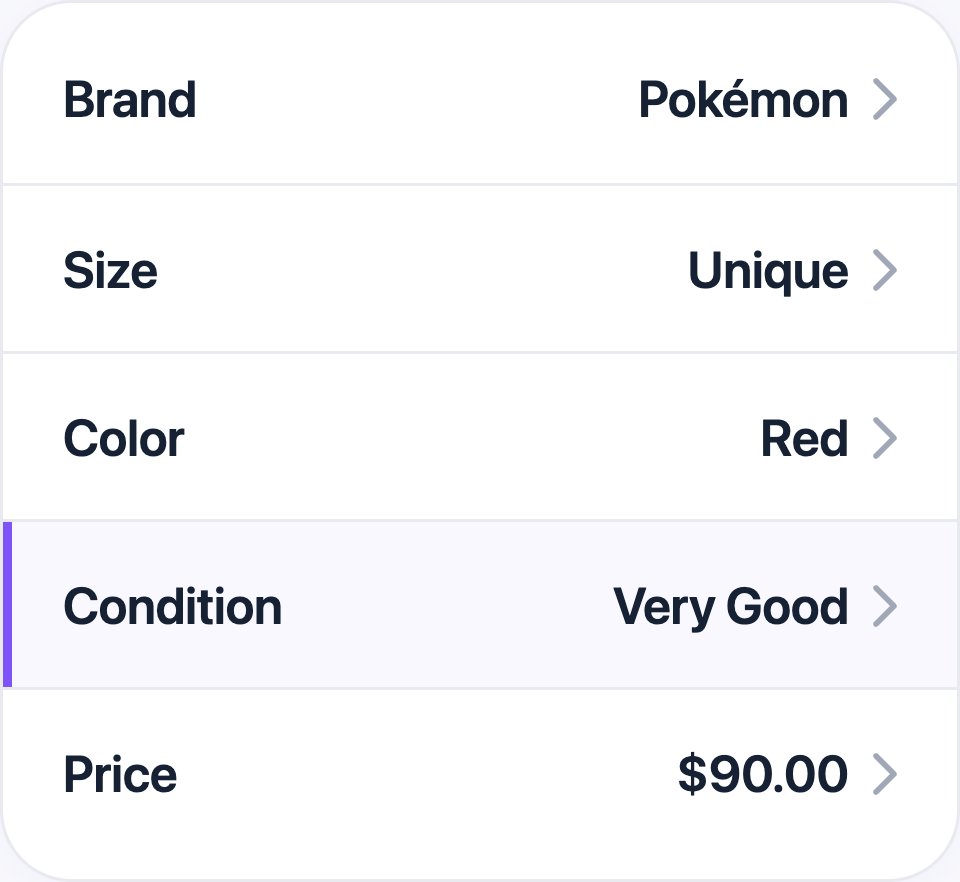
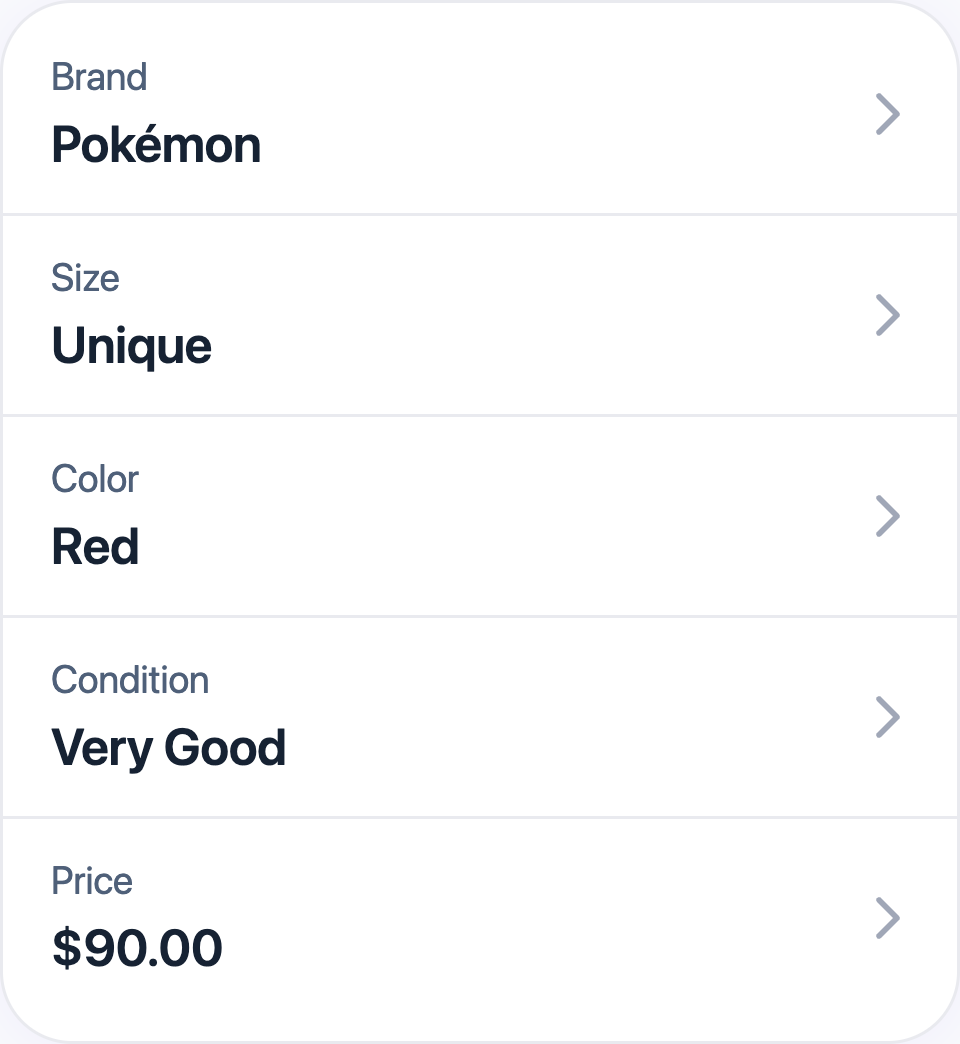
v2 patch: understanding-listing-conditions-and-expectations — PR #105 Layout Proof retro pass
Article validates 0 hard / 0 soft (variants article: pre-existing 1 soft
warn unchanged ; not introduced by this patch). PNGs re-rendered DPR3.
No flow.yml change. No Intercom sync triggered.

diff --git a/articles/understanding-listing-conditions-and-expectations/mockup-sources/section-row__en.html b/articles/understanding-listing-conditions-and-expectations/mockup-sources/section-row__en.html
@@ -3,47 +3,57 @@
 body { font-family: -apple-system, "SF Pro Display", BlinkMacSystemFont, system-ui, sans-serif; background: #F9FAFC; display: flex; justify-content: center; padding: 12px; }
 .phone { width: 320px; background: #FFFFFF; border-radius: 24px; box-shadow: 0 2px 20px rgba(126,83,248,0.08); border: 1px solid #E9EAEF; overflow: hidden; padding: 4px 0 8px; }
 
-/* Section row matches ProductAttributeCell.swift: title 17pt semibold, selected value 17pt semibold, chevron right, divider below */
-.row { display: flex; align-items: center; padding: 16px 20px; min-height: 56px; position: relative; }
-.row .label { font-size: 17px; font-weight: 600; color: #162233; line-height: 22px; flex-shrink: 0; }
-.row .filler { flex: 1; }
-.row .value { font-size: 17px; font-weight: 600; color: #162233; line-height: 22px; text-align: right; margin-right: 8px; }
-.row .value.muted { color: #6B7A92; font-weight: 400; }
-.row .chev { width: 8px; height: 14px; flex-shrink: 0; display: flex; align-items: center; justify-content: center; }
+/* Section row mirrors ProductAttributeCell.swift:64-70 (mainStackView axis=.vertical,
+   spacing=2) + :82-101 (configure + handleOptionSelection): title shrinks 17pt -> 13pt
+   regular when a value is selected, value appears BELOW title (addArrangedSubview), both
+   leading-aligned. Chevron is the only trailing-pinned element (imageView.trailingAnchor
+   = contentView.trailingAnchor - 16, :116). contentView.backgroundColor = .clear (:105),
+   so NO row highlight state (the only required-state cue is titleLabel.textColor=customRed
+   per :84, which we do not need to render here since all rows have values selected).
+   .row-stack is the LEFT flex item with align-items: flex-start (visibly leading);
+   .chev is the trailing flex item enforced by flex layout + flex-shrink:0. */
+.row { display: flex; align-items: center; padding: 12px 16px; min-height: 56px; gap: 12px; }
+.row .row-stack { flex: 1; min-width: 0; display: flex; flex-direction: column; align-items: flex-start; gap: 2px; }
+.row .row-title { font-size: 13px; font-weight: 400; color: #4F6079; line-height: 18px; }
+.row .row-value { font-size: 17px; font-weight: 600; color: #162233; line-height: 22px; font-family: -apple-system, "SF Pro Display", BlinkMacSystemFont, system-ui, sans-serif; }
+.row .chev { width: 14px; height: 14px; flex-shrink: 0; display: flex; align-items: center; justify-content: center; }
 .row .chev svg { width: 8px; height: 14px; }
 .row + .row { border-top: 0.5px solid #E9EAEF; }
-.row.focus { background: #F9F8FF; }
-.row.focus::before { content: ""; position: absolute; left: 0; top: 0; bottom: 0; width: 3px; background: #7E53F8; }
 </style></head><body>
 <div class="phone">
   <div class="row">
-    <div class="label">Brand</div>
-    <div class="filler"></div>
-    <div class="value">Pokémon</div>
+    <div class="row-stack">
+      <div class="row-title">Brand</div>
+      <div class="row-value">Pokémon</div>
+    </div>
     <div class="chev"><svg viewBox="0 0 8 14" fill="none" stroke="#A0A7B7" stroke-width="2" stroke-linecap="round" stroke-linejoin="round"><polyline points="1 1 7 7 1 13"/></svg></div>
   </div>
   <div class="row">
-    <div class="label">Size</div>
-    <div class="filler"></div>
-    <div class="value">Unique</div>
+    <div class="row-stack">
+      <div class="row-title">Size</div>
+      <div class="row-value">Unique</div>
+    </div>
     <div class="chev"><svg viewBox="0 0 8 14" fill="none" stroke="#A0A7B7" stroke-width="2" stroke-linecap="round" stroke-linejoin="round"><polyline points="1 1 7 7 1 13"/></svg></div>
   </div>
   <div class="row">
-    <div class="label">Color</div>
-    <div class="filler"></div>
-    <div class="value">Red</div>
-    <div class="chev"><svg viewBox="0 0 8 14" fill="none" stroke="#A0A7B7" stroke-width="2" stroke-linecap="round" stroke-linejoin="round"><polyline points="1 1 7 7 1 13"/></svg></div>
-  </div>
-  <div class="row focus">
-    <div class="label">Condition</div>
-    <div class="filler"></div>
-    <div class="value">Very Good</div>
+    <div class="row-stack">
+      <div class="row-title">Color</div>
+      <div class="row-value">Red</div>
+    </div>
     <div class="chev"><svg viewBox="0 0 8 14" fill="none" stroke="#A0A7B7" stroke-width="2" stroke-linecap="round" stroke-linejoin="round"><polyline points="1 1 7 7 1 13"/></svg></div>
   </div>
   <div class="row">
-    <div class="label">Price</div>
-    <div class="filler"></div>
-    <div class="value">$90.00</div>
+    <div class="row-stack">
+      <div class="row-title">Condition</div>
+      <div class="row-value">Very Good</div>
+    </div>
+    <div class="chev"><svg viewBox="0 0 8 14" fill="none" stroke="#A0A7B7" stroke-width="2" stroke-linecap="round" stroke-linejoin="round"><polyline points="1 1 7 7 1 13"/></svg></div>
+  </div>
+  <div class="row">
+    <div class="row-stack">
+      <div class="row-title">Price</div>
+      <div class="row-value">$90.00</div>
+    </div>
     <div class="chev"><svg viewBox="0 0 8 14" fill="none" stroke="#A0A7B7" stroke-width="2" stroke-linecap="round" stroke-linejoin="round"><polyline points="1 1 7 7 1 13"/></svg></div>
   </div>
 </div>

diff --git a/articles/understanding-listing-conditions-and-expectations/mockup-sources/section-row__pt-br.html b/articles/understanding-listing-conditions-and-expectations/mockup-sources/section-row__pt-br.html
@@ -3,47 +3,57 @@
 body { font-family: -apple-system, "SF Pro Display", BlinkMacSystemFont, system-ui, sans-serif; background: #F9FAFC; display: flex; justify-content: center; padding: 12px; }
 .phone { width: 320px; background: #FFFFFF; border-radius: 24px; box-shadow: 0 2px 20px rgba(126,83,248,0.08); border: 1px solid #E9EAEF; overflow: hidden; padding: 4px 0 8px; }
 
-/* Section row matches ProductAttributeCell.swift: title 17pt semibold, selected value 17pt semibold, chevron right, divider below */
-.row { display: flex; align-items: center; padding: 16px 20px; min-height: 56px; position: relative; }
-.row .label { font-size: 17px; font-weight: 600; color: #162233; line-height: 22px; flex-shrink: 0; }
-.row .filler { flex: 1; }
-.row .value { font-size: 17px; font-weight: 600; color: #162233; line-height: 22px; text-align: right; margin-right: 8px; }
-.row .value.muted { color: #6B7A92; font-weight: 400; }
-.row .chev { width: 8px; height: 14px; flex-shrink: 0; display: flex; align-items: center; justify-content: center; }
+/* Section row mirrors ProductAttributeCell.swift:64-70 (mainStackView axis=.vertical,
+   spacing=2) + :82-101 (configure + handleOptionSelection): title shrinks 17pt -> 13pt
+   regular when a value is selected, value appears BELOW title (addArrangedSubview), both
+   leading-aligned. Chevron is the only trailing-pinned element (imageView.trailingAnchor
+   = contentView.trailingAnchor - 16, :116). contentView.backgroundColor = .clear (:105),
+   so NO row highlight state (the only required-state cue is titleLabel.textColor=customRed
+   per :84, which we do not need to render here since all rows have values selected).
+   .row-stack is the LEFT flex item with align-items: flex-start (visibly leading);
+   .chev is the trailing flex item enforced by flex layout + flex-shrink:0. */
+.row { display: flex; align-items: center; padding: 12px 16px; min-height: 56px; gap: 12px; }
+.row .row-stack { flex: 1; min-width: 0; display: flex; flex-direction: column; align-items: flex-start; gap: 2px; }
+.row .row-title { font-size: 13px; font-weight: 400; color: #4F6079; line-height: 18px; }
+.row .row-value { font-size: 17px; font-weight: 600; color: #162233; line-height: 22px; font-family: -apple-system, "SF Pro Display", BlinkMacSystemFont, system-ui, sans-serif; }
+.row .chev { width: 14px; height: 14px; flex-shrink: 0; display: flex; align-items: center; justify-content: center; }
 .row .chev svg { width: 8px; height: 14px; }
 .row + .row { border-top: 0.5px solid #E9EAEF; }
-.row.focus { background: #F9F8FF; }
-.row.focus::before { content: ""; position: absolute; left: 0; top: 0; bottom: 0; width: 3px; background: #7E53F8; }
 </style></head><body>
 <div class="phone">
   <div class="row">
-    <div class="label">Marca</div>
-    <div class="filler"></div>
-    <div class="value">Pokémon</div>
+    <div class="row-stack">
+      <div class="row-title">Marca</div>
+      <div class="row-value">Pokémon</div>
+    </div>
     <div class="chev"><svg viewBox="0 0 8 14" fill="none" stroke="#A0A7B7" stroke-width="2" stroke-linecap="round" stroke-linejoin="round"><polyline points="1 1 7 7 1 13"/></svg></div>
   </div>
   <div class="row">
-    <div class="label">Tamanho</div>
-    <div class="filler"></div>
-    <div class="value">Único</div>
+    <div class="row-stack">
+      <div class="row-title">Tamanho</div>
+      <div class="row-value">Único</div>
+    </div>
     <div class="chev"><svg viewBox="0 0 8 14" fill="none" stroke="#A0A7B7" stroke-width="2" stroke-linecap="round" stroke-linejoin="round"><polyline points="1 1 7 7 1 13"/></svg></div>
   </div>
   <div class="row">
-    <div class="label">Cor</div>
-    <div class="filler"></div>
-    <div class="value">Vermelho</div>
-    <div class="chev"><svg viewBox="0 0 8 14" fill="none" stroke="#A0A7B7" stroke-width="2" stroke-linecap="round" stroke-linejoin="round"><polyline points="1 1 7 7 1 13"/></svg></div>
-  </div>
-  <div class="row focus">
-    <div class="label">Condição</div>
-    <div class="filler"></div>
-    <div class="value">Muito Bom</div>
+    <div class="row-stack">
+      <div class="row-title">Cor</div>
+      <div class="row-value">Vermelho</div>
+    </div>
     <div class="chev"><svg viewBox="0 0 8 14" fill="none" stroke="#A0A7B7" stroke-width="2" stroke-linecap="round" stroke-linejoin="round"><polyline points="1 1 7 7 1 13"/></svg></div>
   </div>
   <div class="row">
-    <div class="label">Preço</div>
-    <div class="filler"></div>
-    <div class="value">R$ 450,00</div>
+    <div class="row-stack">
+      <div class="row-title">Condição</div>
+      <div class="row-value">Muito Bom</div>
+    </div>
+    <div class="chev"><svg viewBox="0 0 8 14" fill="none" stroke="#A0A7B7" stroke-width="2" stroke-linecap="round" stroke-linejoin="round"><polyline points="1 1 7 7 1 13"/></svg></div>
+  </div>
+  <div class="row">
+    <div class="row-stack">
+      <div class="row-title">Preço</div>
+      <div class="row-value">R$ 450,00</div>
+    </div>
     <div class="chev"><svg viewBox="0 0 8 14" fill="none" stroke="#A0A7B7" stroke-width="2" stroke-linecap="round" stroke-linejoin="round"><polyline points="1 1 7 7 1 13"/></svg></div>
   </div>
 </div>

diff --git a/articles/understanding-listing-conditions-and-expectations/en.md b/articles/understanding-listing-conditions-and-expectations/en.md
@@ -14,7 +14,7 @@ When you create a listing, the app shows a **Condition** row in the product info
 
 ![Condition row inside the create-listing flow, sitting between Color and Price](https://raw.githubusercontent.com/Jamble-Live-Shopping/help-center/main/assets/mockups/understanding-listing-conditions-and-expectations__section-row__en__v3.png)
 
-The **Condition** row shows the selected condition on the right side. Tap it to open the selection screen.
+The **Condition** row shows the selected condition stacked below the row title, like the other attributes in the list. Tap the row to open the selection screen.
 
 ## The five available conditions
 